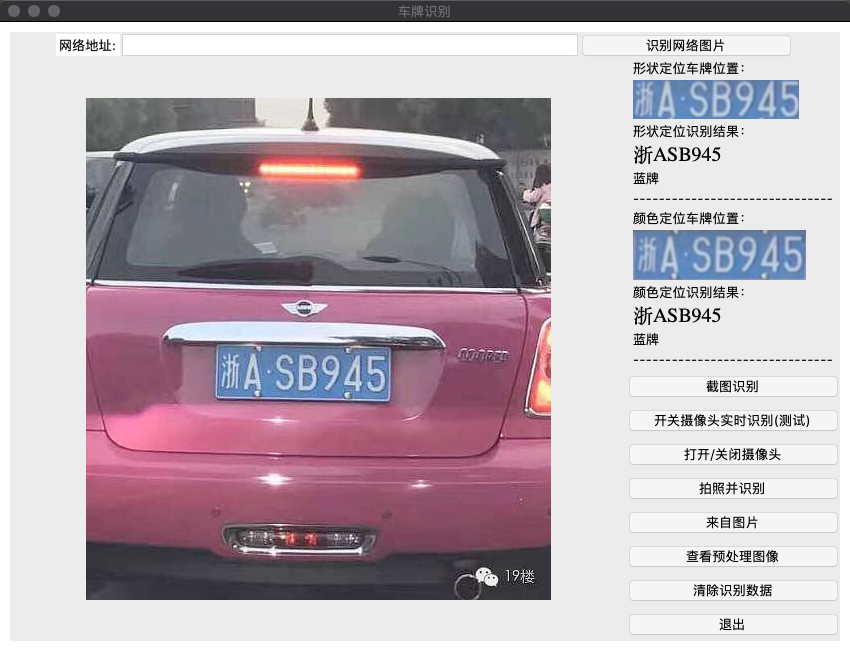
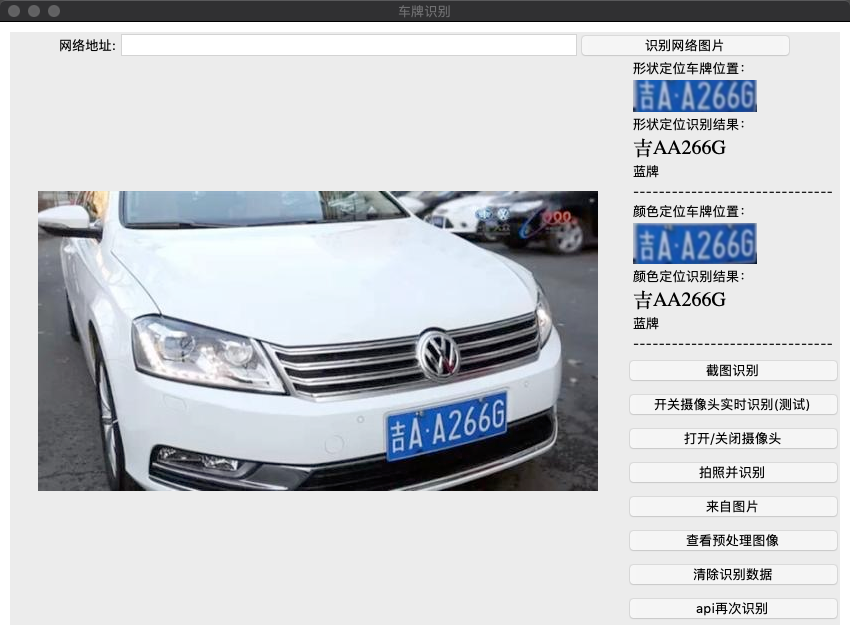
update readme

diff --git a/README.md b/README.md
@@ -37,6 +37,8 @@ python3 main.py
 
 由于样本数据来自网络，因此识别率只是看看而已。但清楚的图片还是可以识别出来的。  \
 ![演示](pic/3.png)
+## 两种方法都无法识别时调用百度api(有手动按钮)
+![log](pic/api.png)
 ## 登录注册页面
 ![log](pic/log.png)
 ## 运行数据写入数据库
